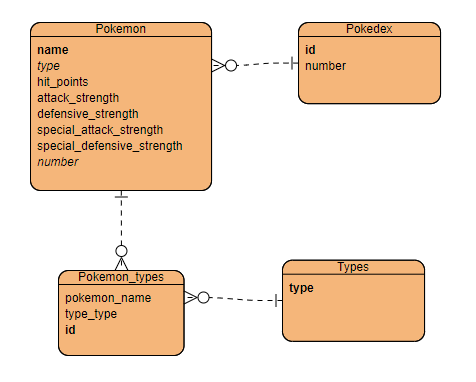
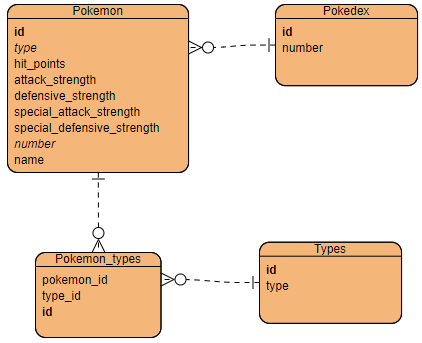
Added Pokemon model with Pokedex association with validations

Changed region(s): [[0.0, 0.0, 1.0, 0.5539], [0.0616, 0.6414, 0.5237, 0.9913], [0.5545, 0.6706, 0.955, 0.9621]]

diff --git a/app/models/pokemon.rb b/app/models/pokemon.rb
@@ -1,2 +1,8 @@
 class Pokemon < ApplicationRecord
+  belongs_to :pokedex
+
+  validates :hit_points, :attack_strength, :defensive_strength, :special_attack_strength, :special_defense_strength, :name, presence: true
+  validates :name, uniqueness: true
+  validates :hit_points, :attack_strength, :defensive_strength, :special_attack_strength, :special_defense_strength, numericality: {only_integer: true}
+
 end

diff --git a/app/models/pokedex.rb b/app/models/pokedex.rb
@@ -1,2 +1,4 @@
 class Pokedex < ApplicationRecord
+  has_many :pokemons
+  validates :number, presence: true, uniqueness: true
 end
